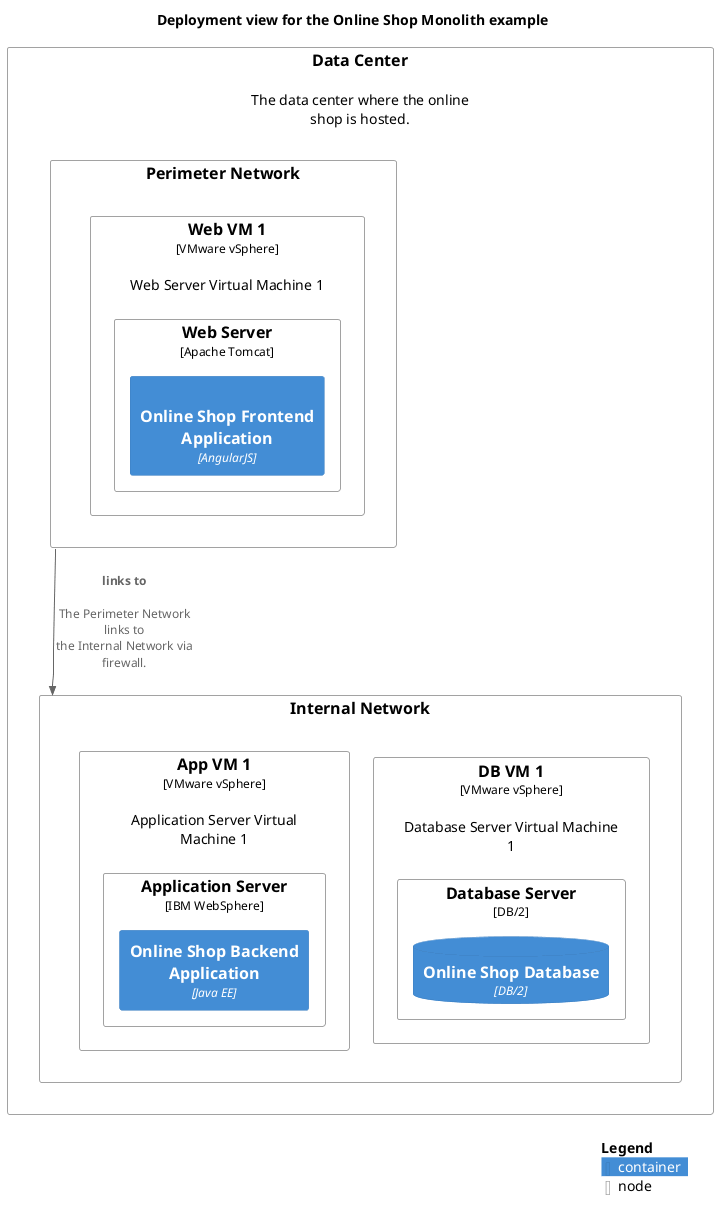
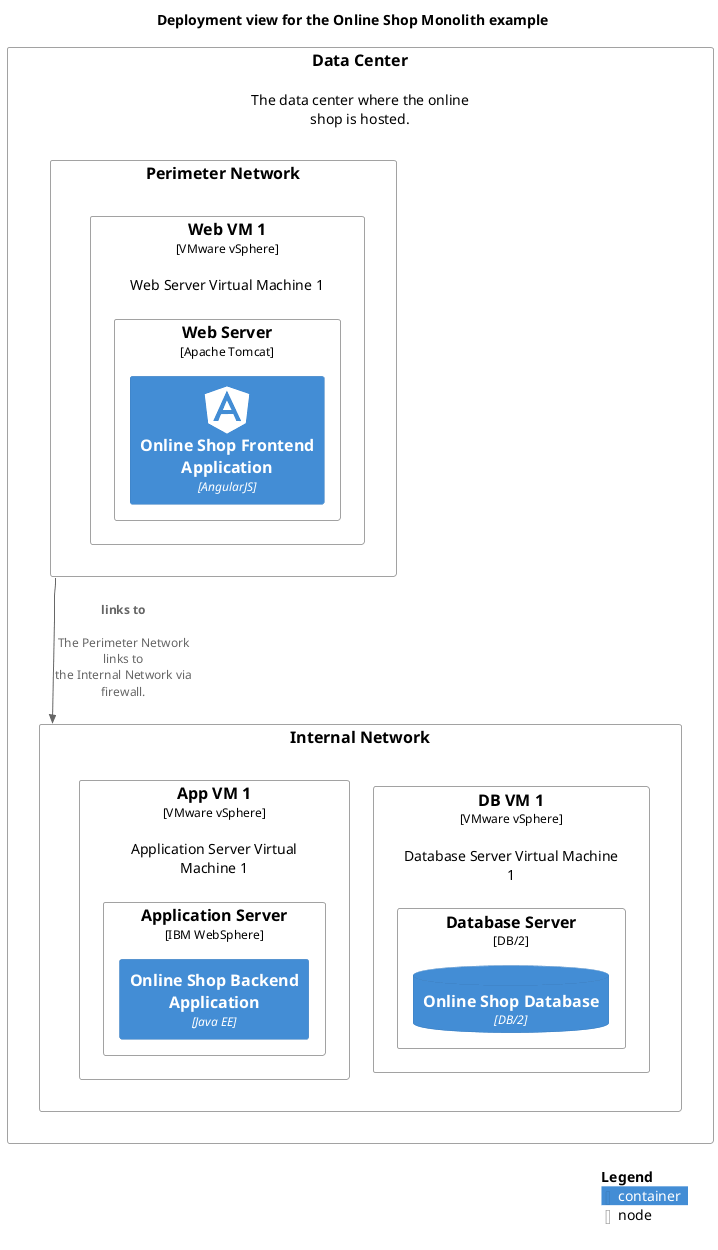
update deployment views for architecture examples

diff --git a/docs/software-development/architecture/example/modulith/deployment-view.md b/docs/software-development/architecture/example/modulith/deployment-view.md
@@ -6,6 +6,13 @@
 ## Description
 Shows the deployment of the Online Shop modulith example
 
+## Containers
+| Container | Description |
+|---|---|
+| [Online Shop Backend Application](../../../../software-development/architecture/example/modulith/online-shop-backend.md)|  |
+| [Online Shop Database](../../../../software-development/architecture/example/modulith/online-shop-db.md)| Stores products, orders, payments, etc. |
+| [Online Shop Frontend Application](../../../../software-development/architecture/example/modulith/online-shop-frontend.md)|  |
+
 ## Deployment Nodes
 | Node | Description |
 |---|---|
@@ -18,6 +25,13 @@ Shows the deployment of the Online Shop modulith example
 | [Perimeter Network](../../../../software-development/architecture/example/modulith/perimeter-network.md)|  |
 | [Web Server](../../../../software-development/architecture/example/modulith/web-server.md)|  |
 | [Web VM 1](../../../../software-development/architecture/example/modulith/web-vm1.md)| Web Server Virtual Machine 1 |
+
+## Deployed Containers
+| From | Name | To | Description |
+|---|---|---|---|
+| [Online Shop Database](../../../../software-development/architecture/example/modulith/online-shop-db.md) | deployed on | [Database Server](../../../../software-development/architecture/example/modulith/db-server.md) | The Online Shop Database is deployed on the Database Server |
+| [Online Shop Backend Application](../../../../software-development/architecture/example/modulith/online-shop-backend.md) | deployed on | [Application Server](../../../../software-development/architecture/example/modulith/application-server.md) | The Online Shop Backend is deployed on the Application Server |
+| [Online Shop Frontend Application](../../../../software-development/architecture/example/modulith/online-shop-frontend.md) | deployed on | [Web Server](../../../../software-development/architecture/example/modulith/web-server.md) | The Online Shop Frontend is deployed on the Web Server |
 
 ## Navigation
 [List of views in namespace](./views-in-namespace.md)

diff --git a/docs/software-development/architecture/example/monolith/deployment-view.md b/docs/software-development/architecture/example/monolith/deployment-view.md
@@ -6,6 +6,13 @@
 ## Description
 Shows the deployment of the Online Shop Monolith example
 
+## Containers
+| Container | Description |
+|---|---|
+| [Online Shop Backend Application](../../../../software-development/architecture/example/monolith/online-shop-backend.md)|  |
+| [Online Shop Database](../../../../software-development/architecture/example/monolith/online-shop-db.md)|  |
+| [Online Shop Frontend Application](../../../../software-development/architecture/example/monolith/online-shop-frontend.md)|  |
+
 ## Deployment Nodes
 | Node | Description |
 |---|---|
@@ -18,6 +25,13 @@ Shows the deployment of the Online Shop Monolith example
 | [Perimeter Network](../../../../software-development/architecture/example/monolith/perimeter-network.md)|  |
 | [Web Server](../../../../software-development/architecture/example/monolith/web-server.md)|  |
 | [Web VM 1](../../../../software-development/architecture/example/monolith/web-vm1.md)| Web Server Virtual Machine 1 |
+
+## Deployed Containers
+| From | Name | To | Description |
+|---|---|---|---|
+| [Online Shop Database](../../../../software-development/architecture/example/monolith/online-shop-db.md) | deployed on | [Database Server](../../../../software-development/architecture/example/monolith/db-server.md) | The Online Shop Database is deployed on the Database Server |
+| [Online Shop Backend Application](../../../../software-development/architecture/example/monolith/online-shop-backend.md) | deployed on | [Application Server](../../../../software-development/architecture/example/monolith/application-server.md) | The Online Shop Backend is deployed on the Application Server |
+| [Online Shop Frontend Application](../../../../software-development/architecture/example/monolith/online-shop-frontend.md) | deployed on | [Web Server](../../../../software-development/architecture/example/monolith/web-server.md) | The Online Shop Frontend is deployed on the Web Server |
 
 ## Navigation
 [List of views in namespace](./views-in-namespace.md)